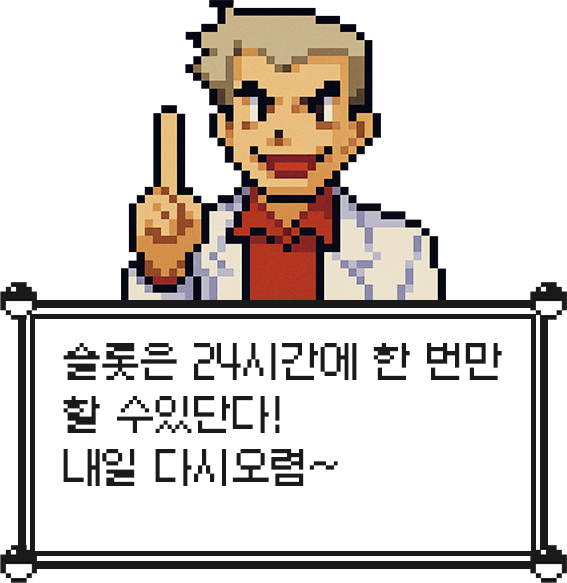
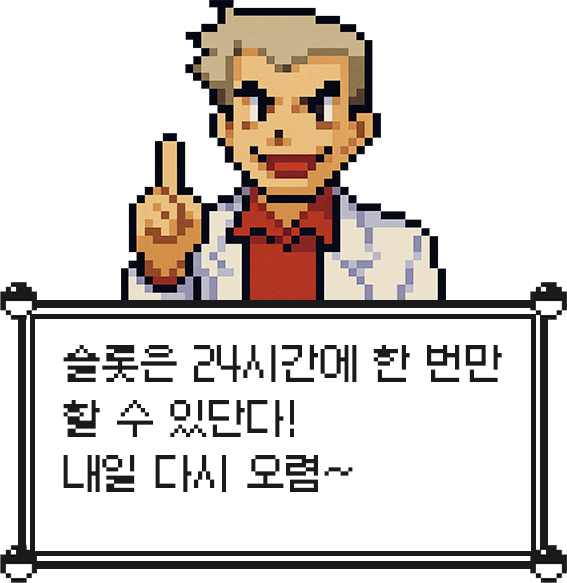
💄 오박사 손가락크기조절

diff --git a/src/pages/slot/slot.ts b/src/pages/slot/slot.ts
@@ -404,7 +404,7 @@ async function tomorryReturn() {
       noSlotModal.classList.remove('d-none');
       allowMusic(noSlotMusic, false);
     }
-    noSlotClose();
+
     resolve();
     if (slotbtn !== null && mSlotBtn !== null && toggleSoundBtn !== null) {
       btnNoneClick(slotbtn);
@@ -426,6 +426,7 @@ function noSlotClose() {
     });
   }
 }
+noSlotClose();
 /* ───────────── 포켓몬 get 화면 띄우기 ───────────── */
 async function openGet(dogamNum: number) {
   await delay(1000);

diff --git a/src/pages/slot/slot.css b/src/pages/slot/slot.css
@@ -257,6 +257,8 @@
     right: 22%;
     bottom: 20%;
     width: 7%;
+    transition: none;
+    animation: none;
   }
   .d-none {
     display: none;
